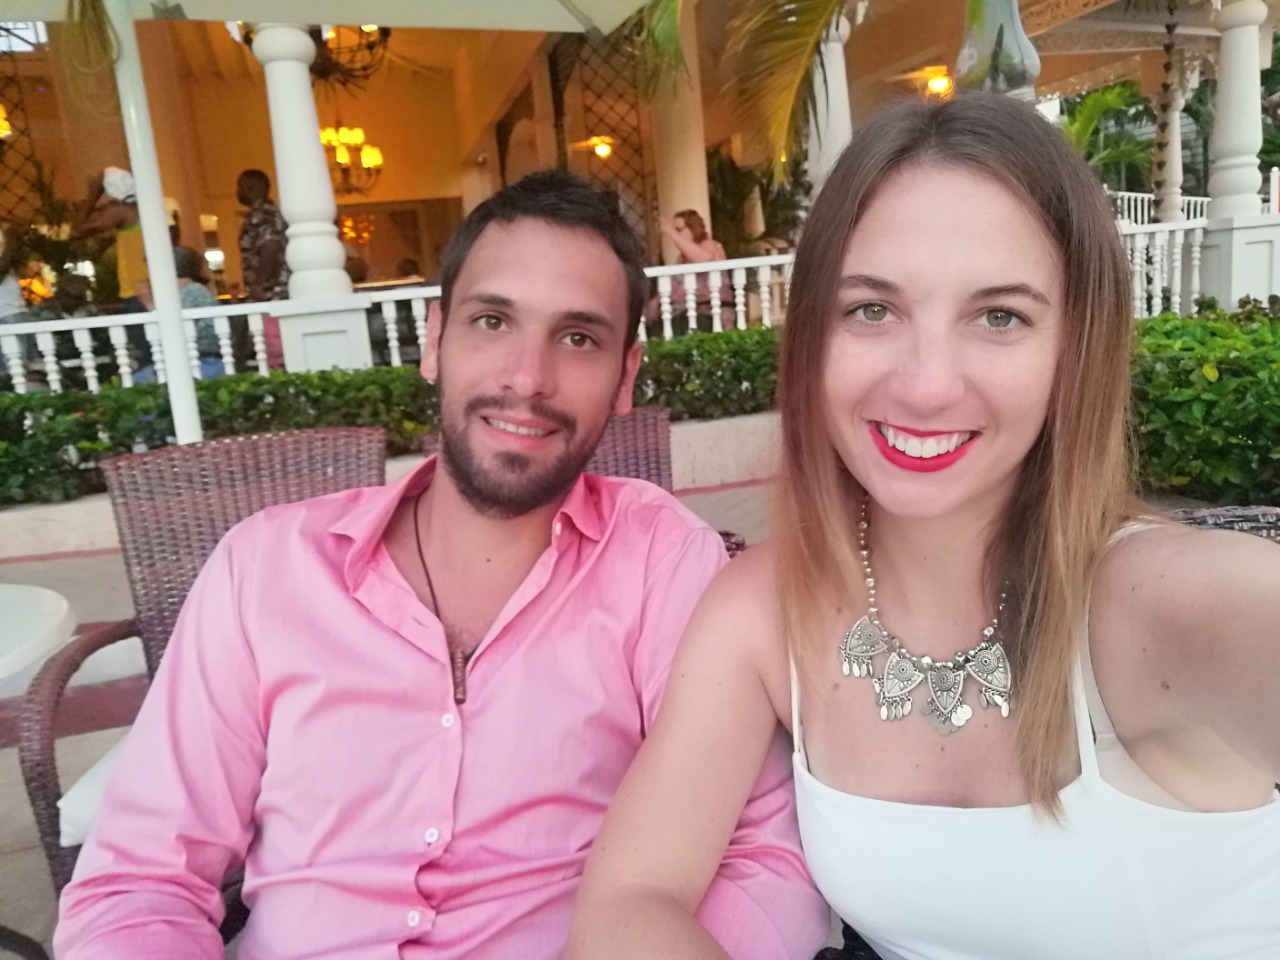
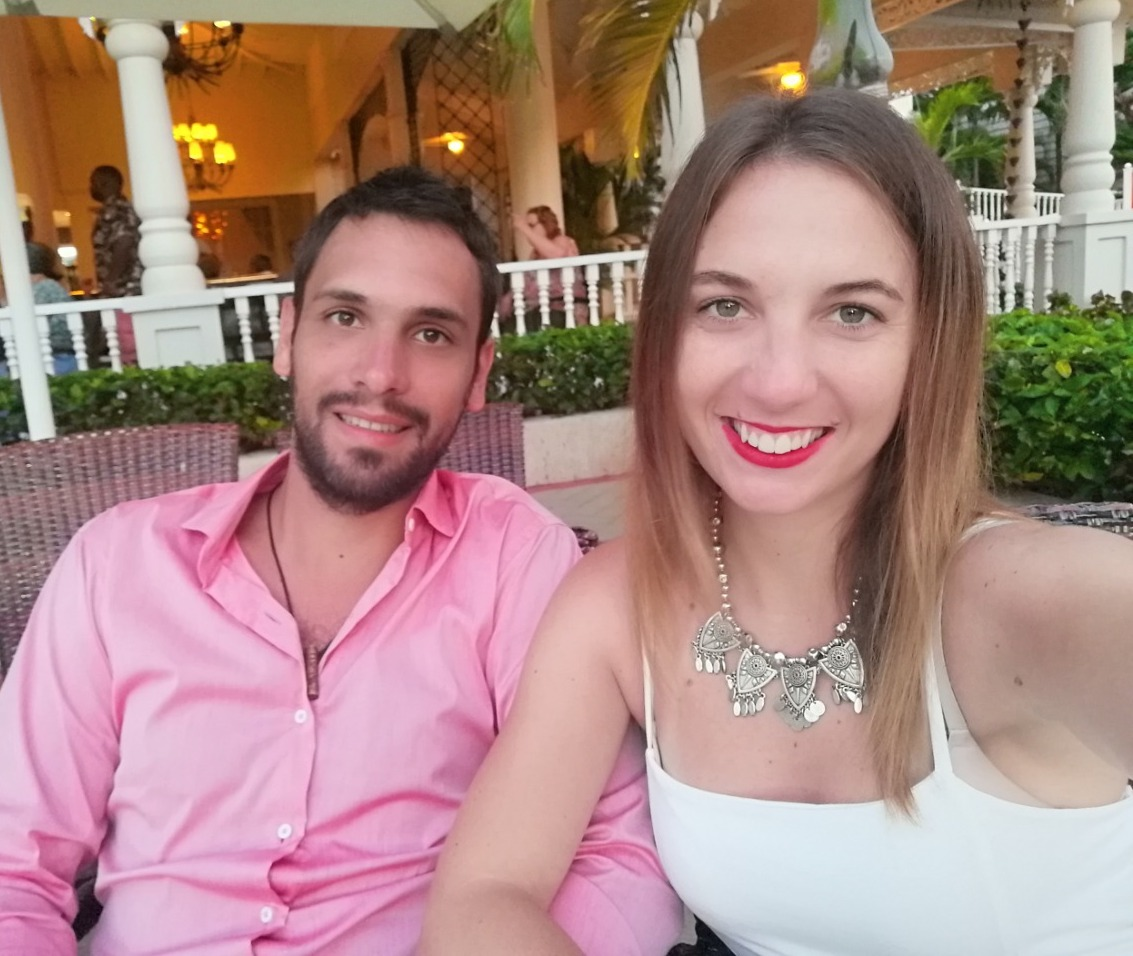
creo repo

diff --git a/index.html b/index.html
@@ -16,7 +16,7 @@
   <div class="slider fullscreen ">
     <ul class="slides">
       <li>
-        <img src="assets/bg0123.jpeg"> <!-- random image -->
+        <img src="assets/bg00.jpeg"> <!-- random image -->
         <div class="caption center-align">
           <h3 id="a00">¡Nos casamos!</h3>
           	<p id="a01">Tami & Gon</p>
